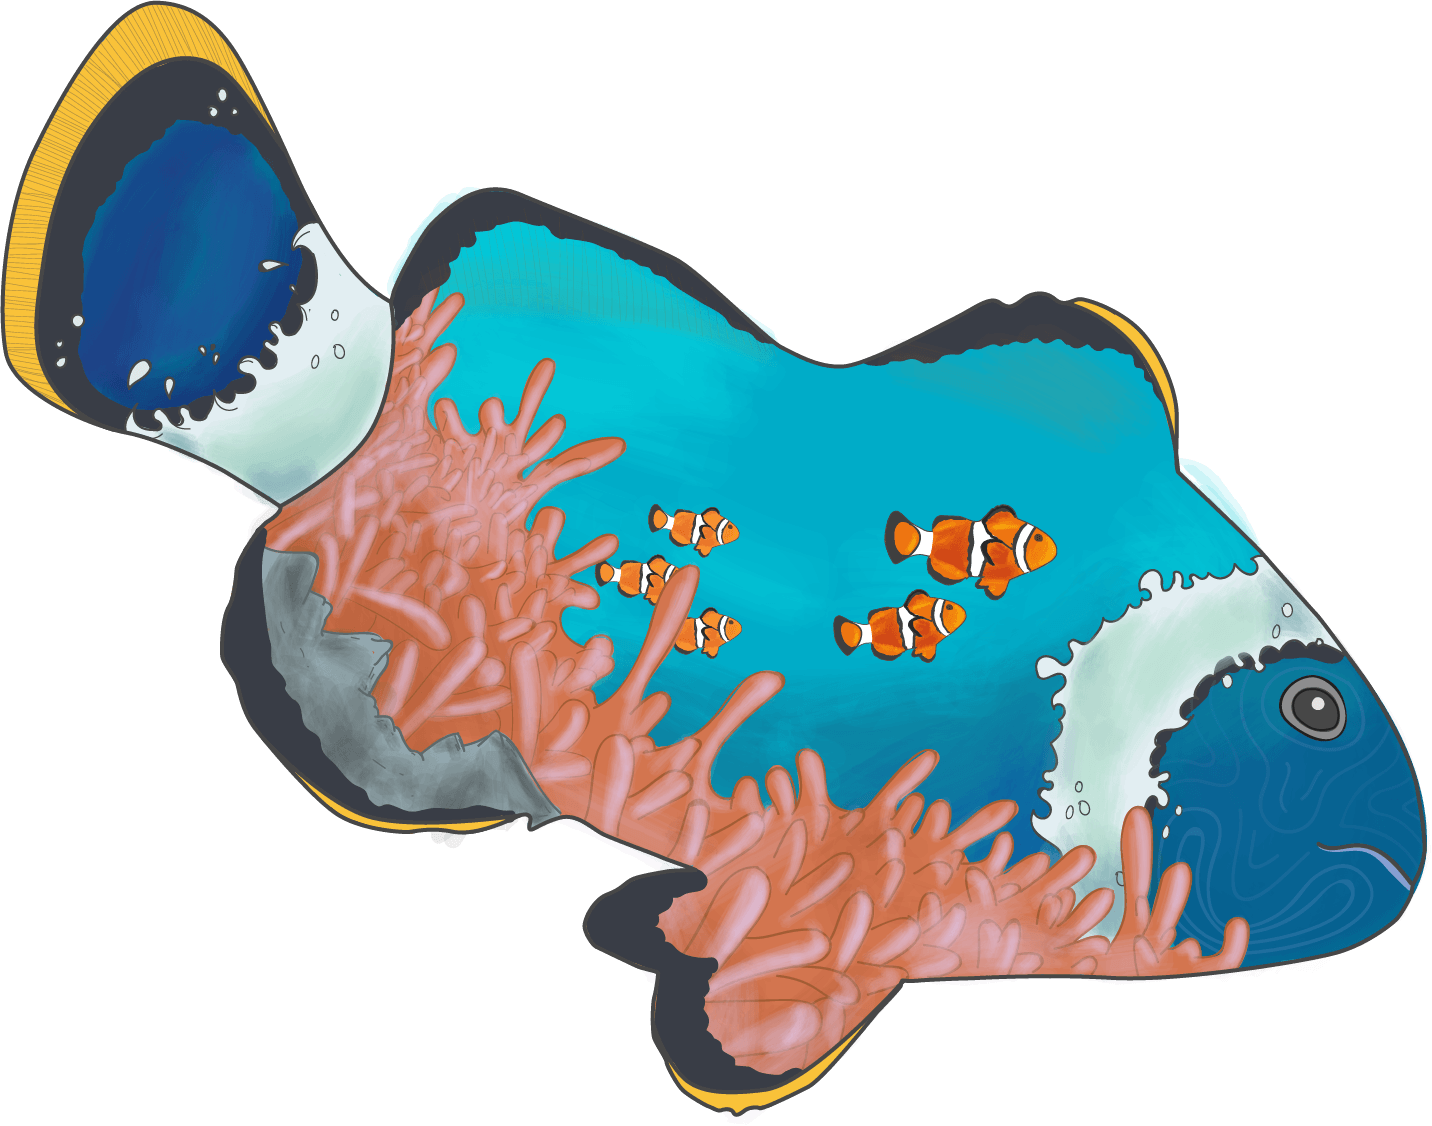
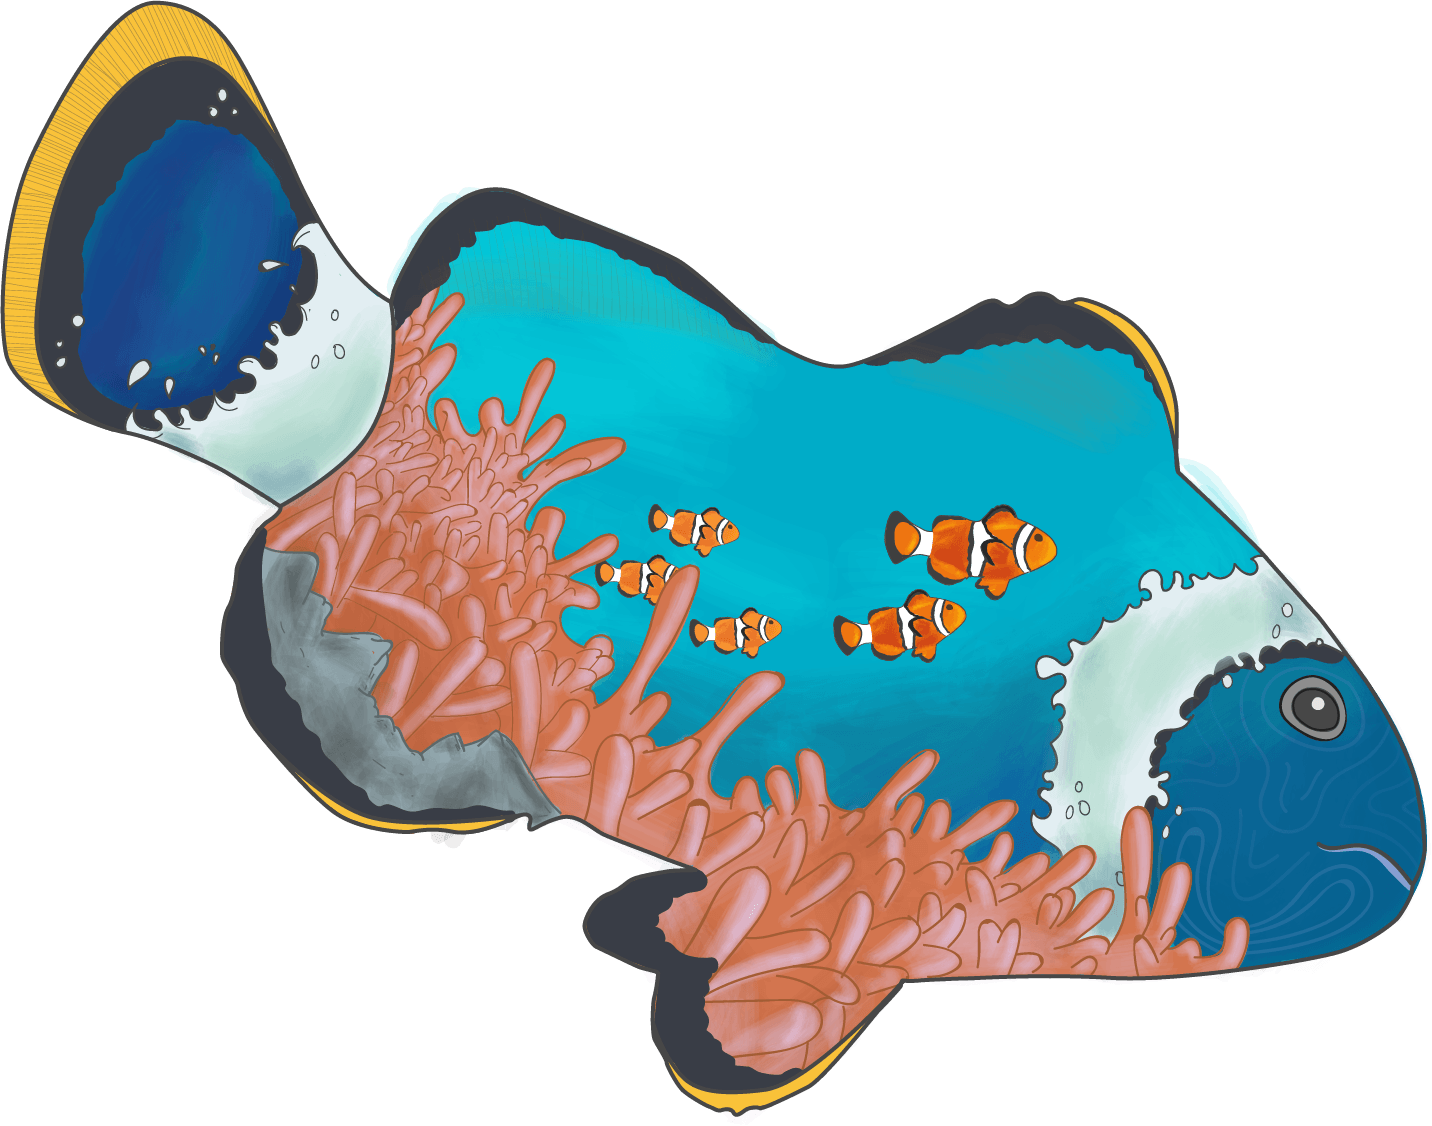
Update

diff --git a/CSS/meesterproef.css b/CSS/meesterproef.css
@@ -64,13 +64,20 @@ p {
   width: 100vw;
 }
 
-.onderwater1 img {
+.onderwater1 div img {
   position: absolute;
   width: 5vw;
   margin-top: 30vh;
   offset-path: path("M.5,119.54S102.44,17.82,212.33,17.82,315.6,116.9,417.54,119.54,526.1,20.47,633.34,17.82,740.58,140.68,842.52,134.07,937.85,29.71,1099.37,17.82,1271.48,152.57,1388,134.07,1538.92,15.18,1650.13,16.5,1809,135.39,1809,135.39");
   animation: move 20s linear infinite;
   transition: ease 0.2s;
+}
+
+.koraal {
+  width: 110vw;
+  bottom: 0;
+  object-fit: contain;
+  position: absolute;
 }
 
 .nemorainbow {

diff --git a/index.html b/index.html
@@ -25,11 +25,14 @@
 
     <section class="onderwater">
 
+      <img src="images/koraal.png" class="koraal" alt="">
+
       <article class="onderwater1">
         <div class="nemo">
           <img src="images/nemo.png" class="nemo" alt="">
           <img src="images/nemo_rainbow.png" class="nemo nemorainbow" alt="">
         </div>
+
       </article>
 
       <article class="onderwaterdetail">
